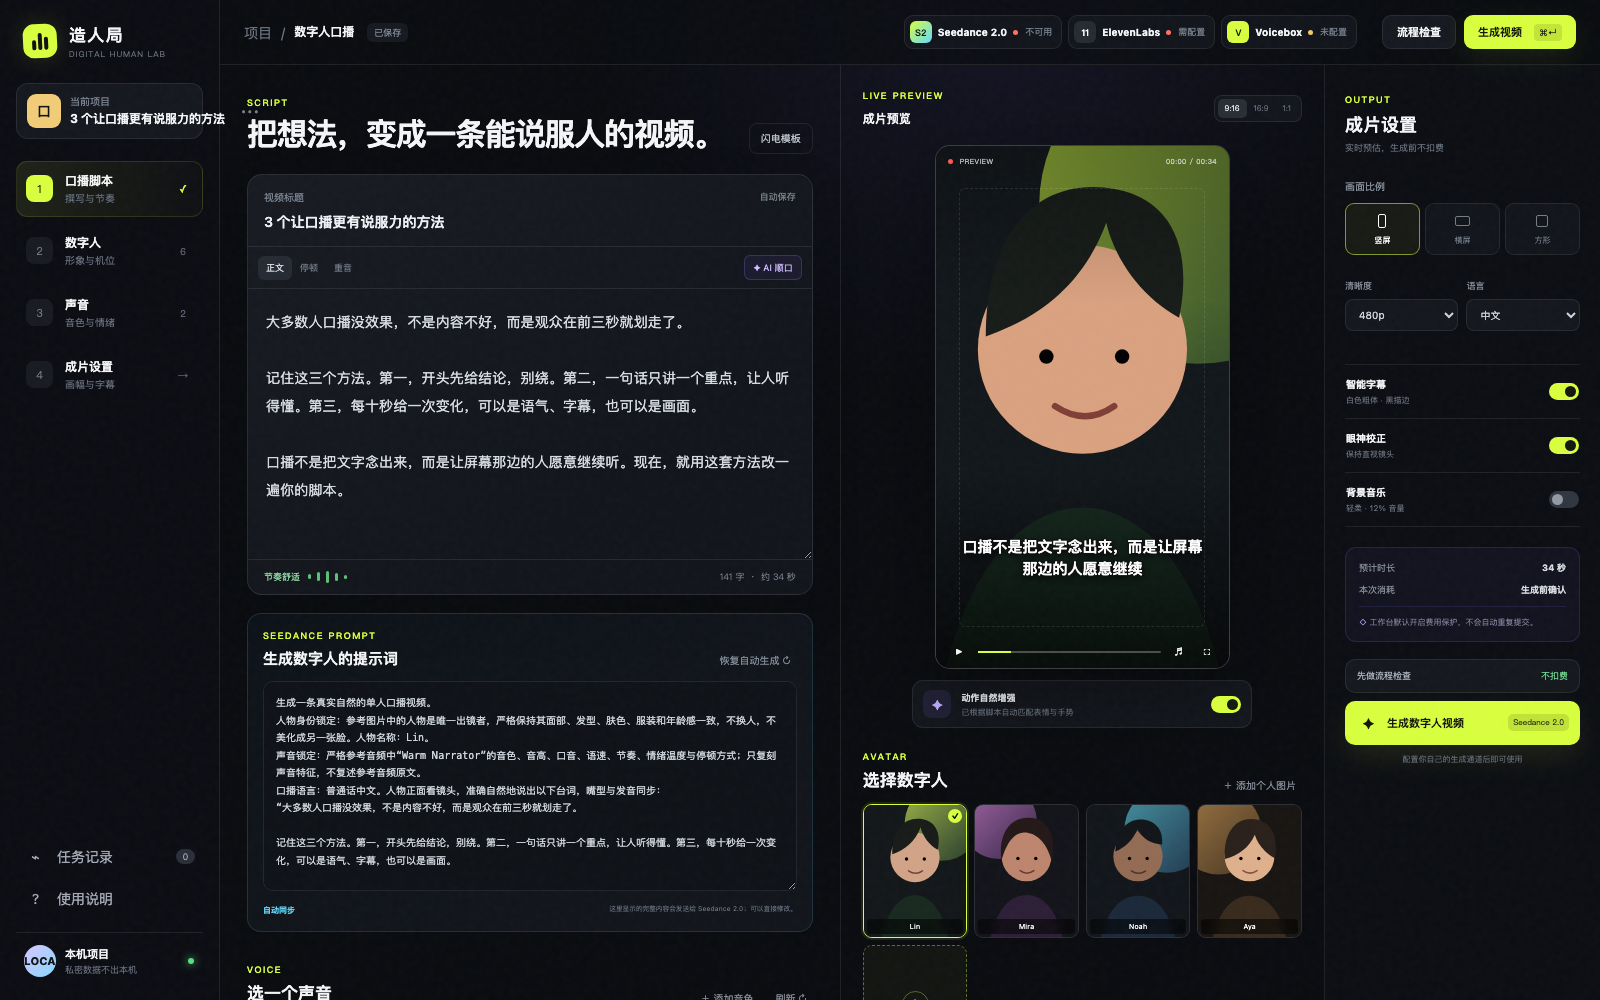
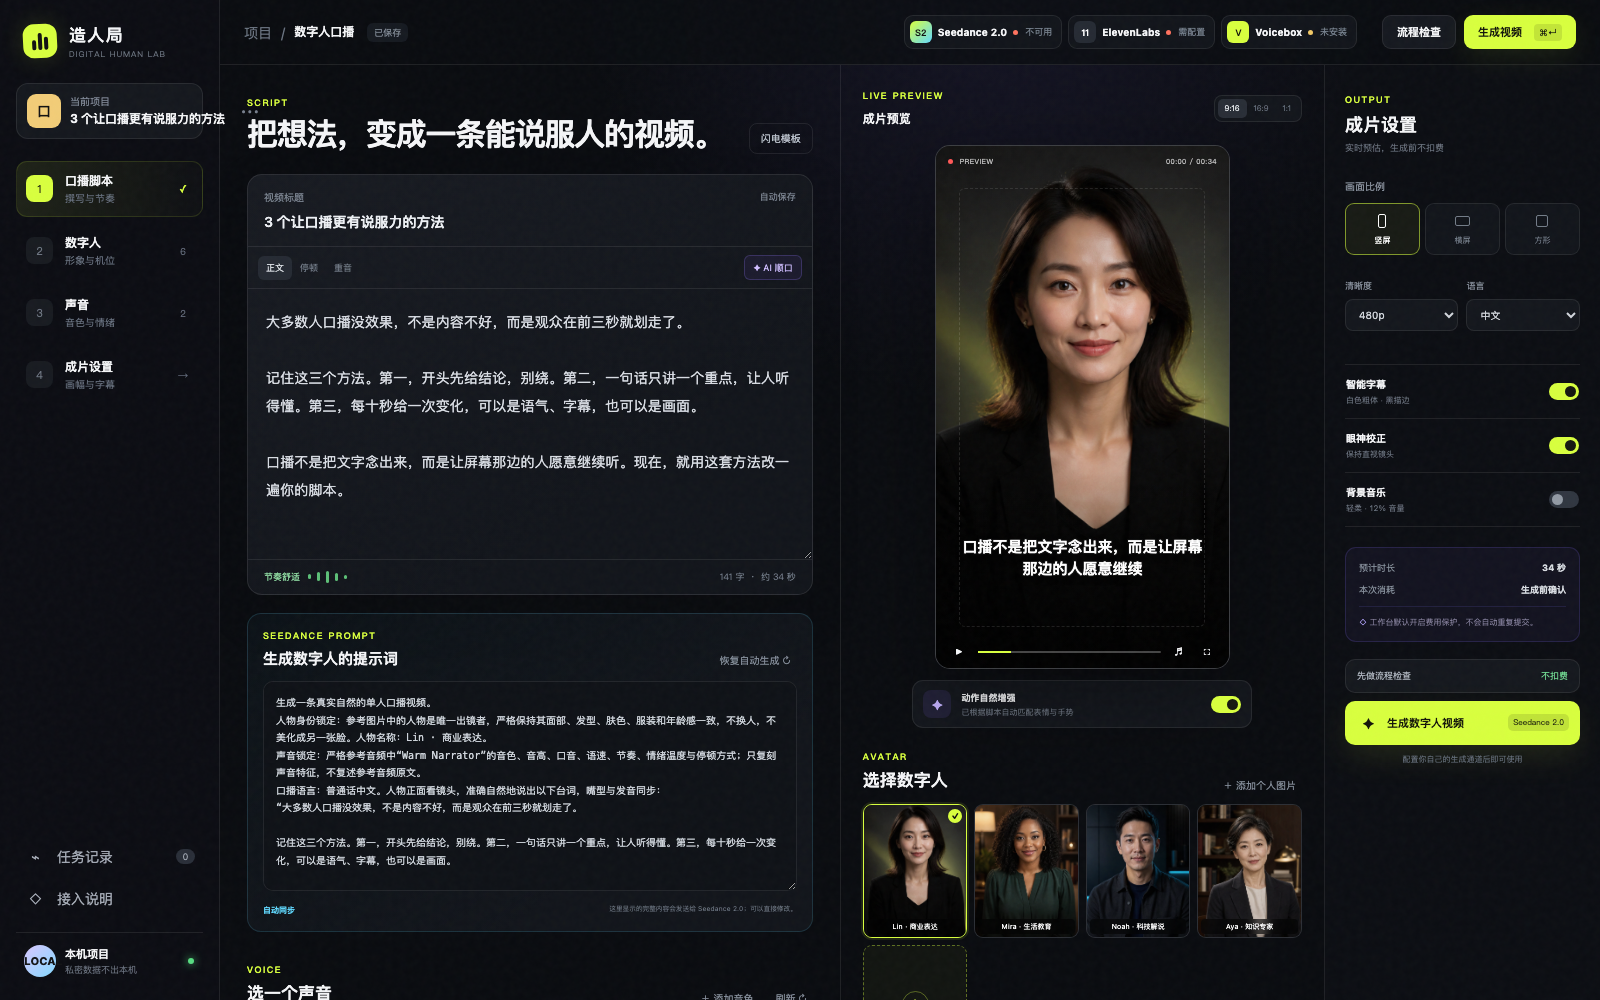
feat: add photorealistic demo covers

Changed region(s): [[0.5625, 0.124, 0.7812, 0.589], [0.5312, 0.806, 0.8125, 0.93], [0.2812, 0.713, 0.3125, 0.744]]

diff --git a/docs/index.html b/docs/index.html
@@ -22,7 +22,7 @@
         <h1>把想法，变成一条<br /><em>能说服人的视频。</em></h1>
         <p>从口播脚本、人物与声音，到 Seedance 2.0 成片。API 由用户在供应商官网自行购买，密钥只保存在自己的电脑。</p>
         <div class="hero-actions">
-          <a class="primary" href="https://github.com/francoeur003/digital-human-studio/releases/latest/download/Digital-Human-Studio-0.4.0-macOS-arm64.zip">下载 macOS 版</a>
+          <a class="primary" href="https://github.com/francoeur003/digital-human-studio/releases/latest/download/Digital-Human-Studio-0.4.1-macOS-arm64.zip">下载 macOS 版</a>
           <a class="secondary" href="https://github.com/francoeur003/digital-human-studio" target="_blank" rel="noreferrer">查看开源项目 ↗</a>
         </div>
         <div class="hero-shot"><img src="screenshots/hero.png" alt="数字人口播工作台界面" /></div>
